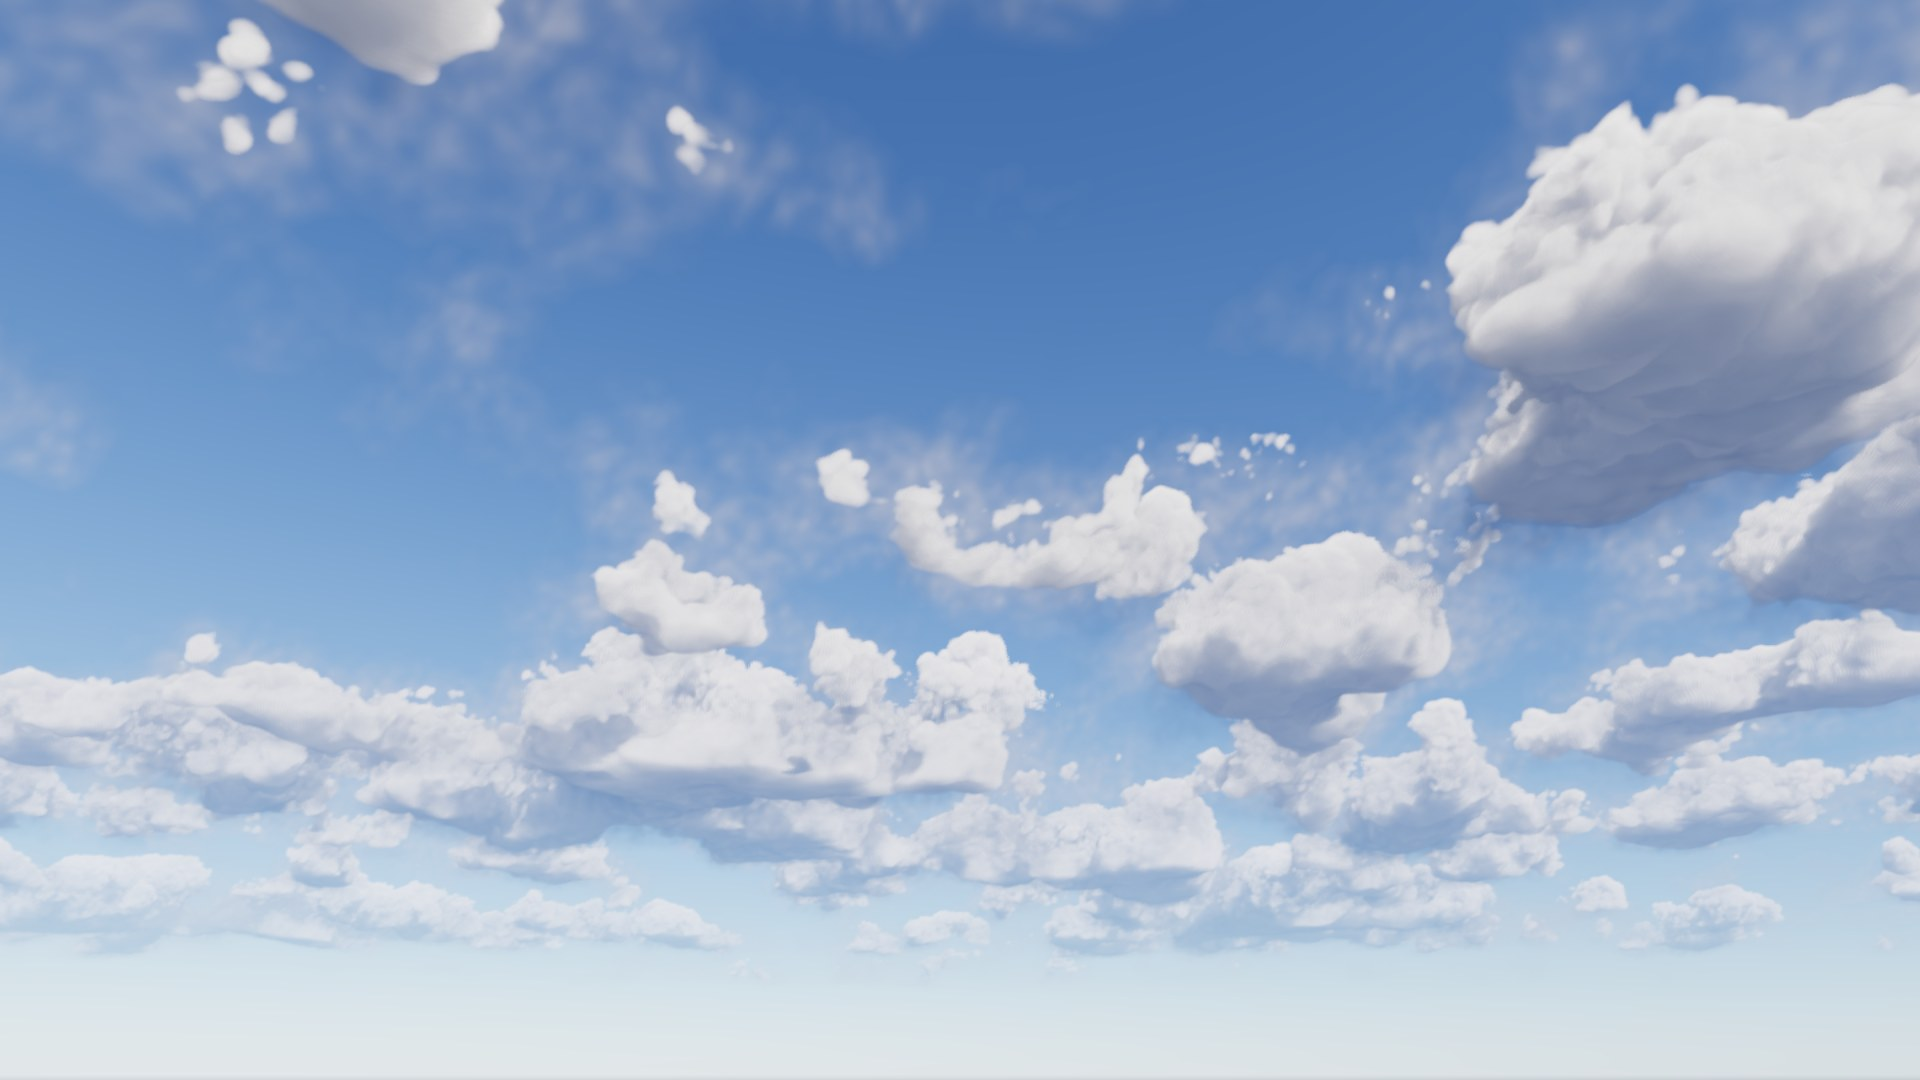
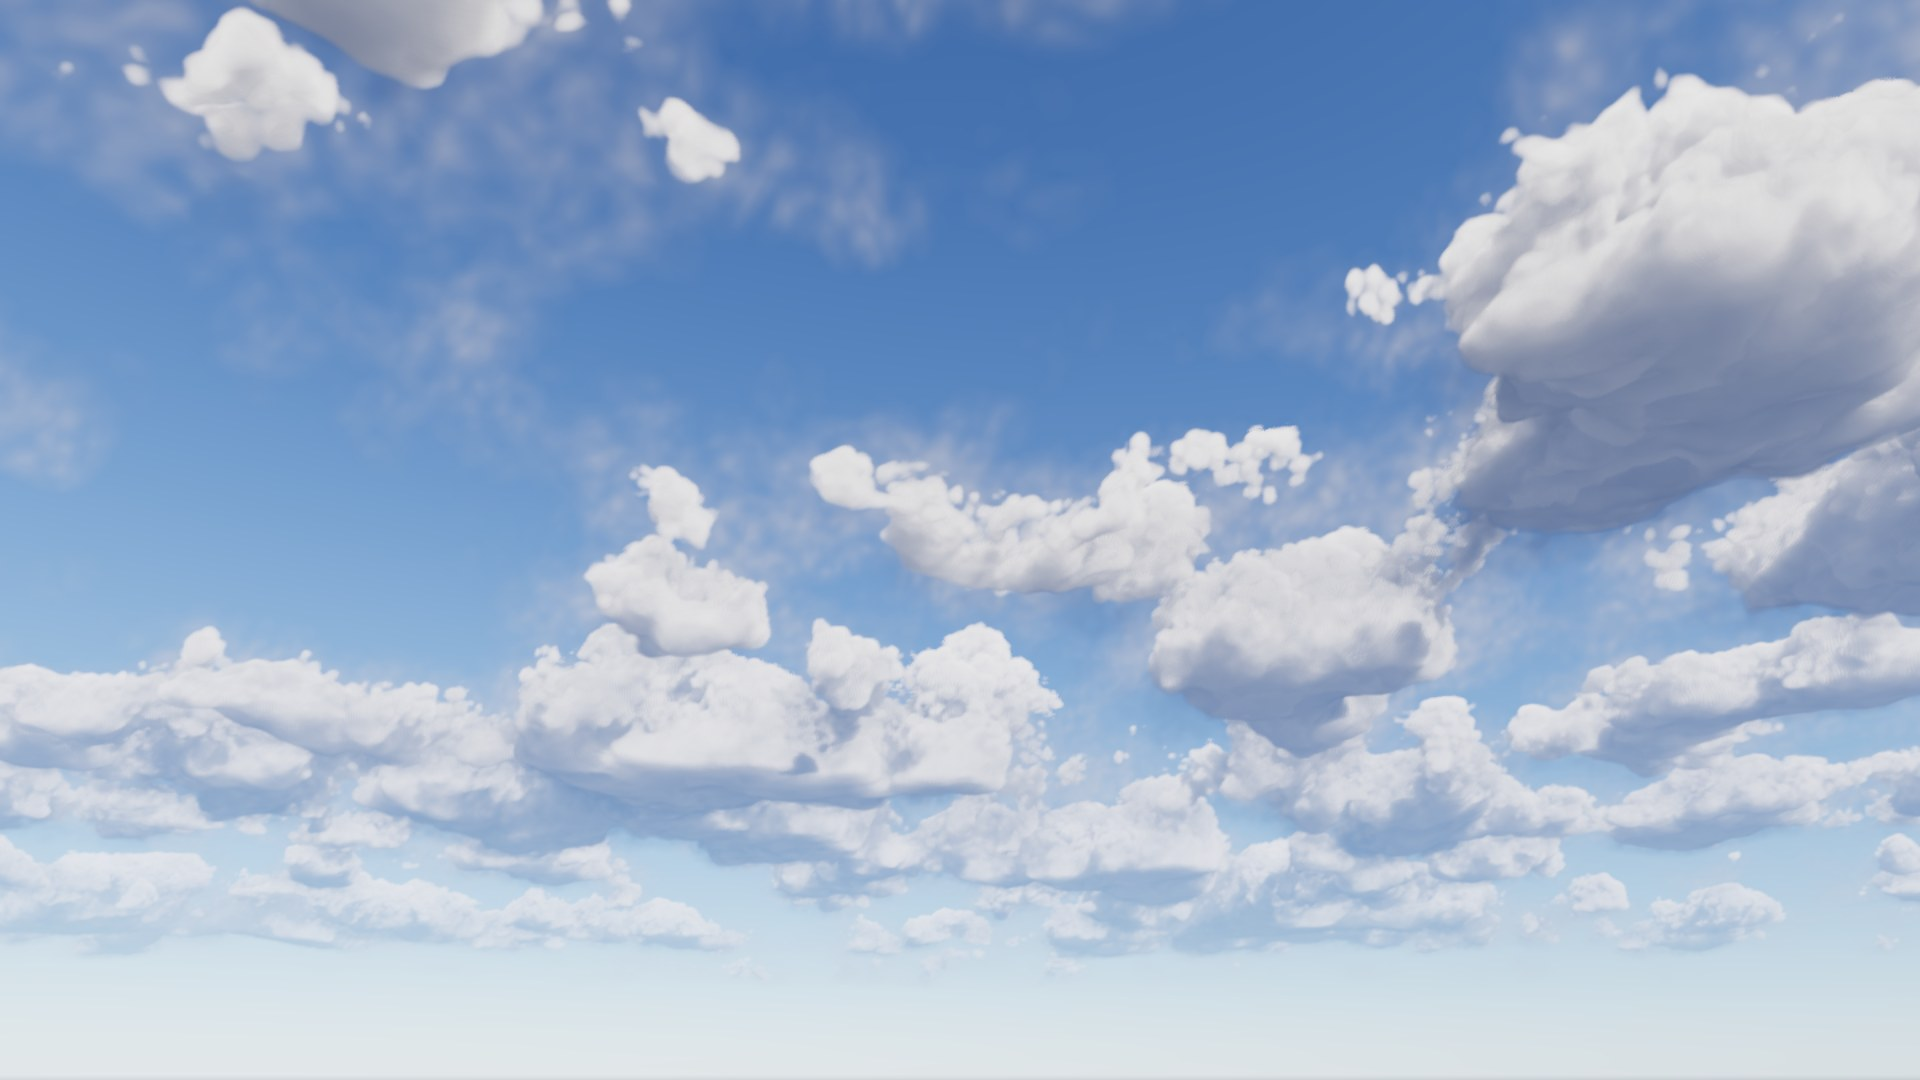
WIP H6: step 5 revised: NDF coverageHi back to 0.83 (0.9 emptied the overhead sky: upper-frame cover 0.15 vs GP7 Fig 4.16 0.54); ring and veil changes kept; step5 captures re-taken

diff --git a/packages/runtime/src/procedural/settings.ts b/packages/runtime/src/procedural/settings.ts
@@ -307,7 +307,7 @@ export const TAKRAM_DEFAULTS: TakramShape = {
 };
 
 export const HZD_NDF_DEFAULTS: HzdNdfSettings = {
-  seed: 3, resolution: 512, tileMeters: 16000, coverageCells: 9, islandCells: 2, islandWeight: 0.8, coverageLo: -0.47, coverageHi: 0.9,
+  seed: 3, resolution: 512, tileMeters: 16000, coverageCells: 9, islandCells: 2, islandWeight: 0.8, coverageLo: -0.47, coverageHi: 0.83,
   typeCells: 2, typeMin: 0.4, typeMax: 1, bottomType: 0, minHeight: 0, maxHeight: 0.9, heightVariation: 0.2, footprint: 0, worleyCells: 6,
 };
 export const HZD_DEFAULTS: HzdShape = {
